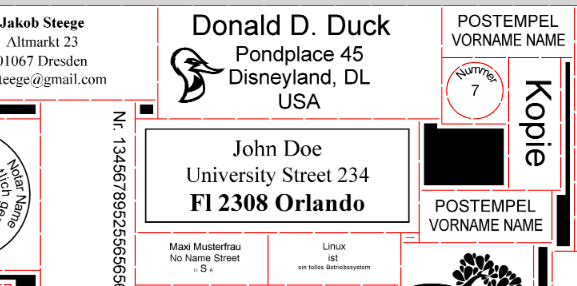
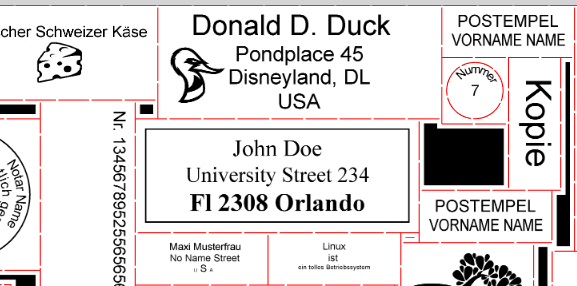
Bolasys Rechtschreibung + Bild ersetzt

Changed region(s): [[0.0, 0.0559, 0.2496, 0.3077]]

diff --git a/components/mycard.tsx b/components/mycard.tsx
@@ -20,8 +20,8 @@ const MyCard = () =>
   const text13 = ["Die Einbindung von Fremdsoftware wird durch Makros unterstützt."]
   const text14 = ["Logos oder fertige Designs können hochgeladen werden."]
 
-  const text15 = ["Beim Nesting werden Einzeldesigns optimiert für Arbeitstische oder Materialplatten angeordnet. Dabei erfolgen verschiedene Vorverarbeitungsschritte der Design-Dateien.",<br/>,"Einzelheiten erfahren Sie"]
-  const text16 = ["Zusätzlich werden Schneidlinien und zur Weiterverarbeitung notwendige Daten erzeugt und für nachfolgendene Arbeitsschritte aufbereitet."]
+  const text15 = ["Beim Nesting werden Einzeldesigns optimiert für Arbeitstische oder Materialplatten angeordnet.",<br/>,"Dabei erfolgen verschiedene Vorverarbeitungsschritte der Design-Dateien. Einzelheiten erfahren Sie"]
+  const text16 = ["Zusätzlich werden Schneidlinien und zur Weiterverarbeitung notwendige Daten erzeugt und für nachfolgende Arbeitsschritte aufbereitet."]
   
   const text17 = ["Erstellung von Komponentenlisten angepasst an Produktionseinheiten wie z.B. Gummiplatten bei der Herstellung von Gummistempeln."]
   const text18 = ["Wegoptimierung im Lager."]
@@ -32,7 +32,7 @@ const MyCard = () =>
   const text22 = ["Für die Stempelproduktion ist eine umfassende Integration der Drumfire-Maschine der Cylas Ag vorhanden."]
 
   const text23 = ["Die Station (Software) ist für die Montage von Gummitextplatten auf Stempelgeräte optimiert."]
-  const text24 = ["Die Zuordnung einzelner Textplatten und zugehöriger Geräte wird in einfacher Weise auftragsorientiert gewährleistet. Hier kann auch bereits die Verpackung und der Ausdruck von Adressaufklebern erfolgen."]
+  const text24 = ["Die Zuordnung einzelner Textplatten und zugehöriger Geräte wird in einfacher Weise auftragsorientiert gewährleistet.",<br/>,"Hier kann auch bereits die Verpackung und der Ausdruck von Adressaufklebern erfolgen."]
 
   const text25 = ["Es können Teil- und Sammellieferungen durchgeführt werden."]
   const text26 = ["Die Beauftragung unterschiedlicher Lieferdienste wird unterstützt."]
@@ -41,7 +41,7 @@ const MyCard = () =>
   const text28 = ["Andere Module externer Software können angeschlossen oder synchronisiert werden (z.B. Designeditoren oder Kundenverwaltung und Lagerverwaltung)."]
   const text29 = ["Die Verwendung einer Datev-Schnittstelle ist möglich."]
 
-  const text30 = ["Workflowsystem mit BPMN. Schnittstelle zur Verwaltung von Microservices."]
+  const text30 = ["Workflowsystem mit BPMN.",<br/>,"Schnittstelle zur Verwaltung von Microservices."]
   const text31 = ["Message-Broker."]
   const text32 = ["Datenbank POSGREQL"]
 
@@ -85,7 +85,7 @@ const MyCard = () =>
     <div id="nest" className="sprung"></div>
       <CardHeader style={{zIndex: "0"}}> <h3 className="text-[#2695a0] text-xl">Nesting</h3></CardHeader>
       <CardBody>
-        <Punkt text={text15}/><Link style={{marginTop:"-53px",marginLeft:"225px",paddingBottom:"30px"}} className="text-md text-[#5ec4d2]" href="/produkte/nestingsoftware">hier</Link>
+        <Punkt text={text15}/><Link style={{marginTop:"-53px",marginLeft:"290px",paddingBottom:"30px"}} className="text-md text-[#5ec4d2]" href="/produkte/nestingsoftware">hier</Link>
         <Punkt text={text16}/>
         </CardBody>
     </Card>

diff --git a/app/produkte/nestingsoftware/page.tsx b/app/produkte/nestingsoftware/page.tsx
@@ -19,7 +19,7 @@ import stempel6 from "@/app/bilder/anordnen_gpe.png";
 
 export default function Nesting() {
 
-  const text1 = ["Platzparendes automatisches Anordnen ihrer Designs auf einer Arbeitsfläche oder Materialplatte.",<br/> ,"Die Software gestattet automatische (voreingestellte) Vorverarbeitung von Designs, automatisches Entfernen und Hinzufügen von Schneidkonturen, verschiedene Anordnungsoptionen und Weitergabe von Anordnungsdaten für nachfolgende Arbeitsschritte.",<br/>,"Die im Weiteren verwerteten Anordnungsdaten gestatten das Softwaregestützte Auffinden von Designs auf der Materialplatte bei der Weiterverarbeitung.",<br/>, "Die folgenden Beispiele beziehen sich auf das Nesting von Stempeldesigns auf Gummiplatten."]
+  const text1 = ["Platzsparendes automatisches Anordnen ihrer Designs auf einer Arbeitsfläche oder Materialplatte.",<br/> ,"Die Software gestattet automatische (voreingestellte) Vorverarbeitung von Designs, automatisches Entfernen und Hinzufügen von Schneidkonturen, verschiedene Anordnungsoptionen und Weitergabe von Anordnungsdaten für nachfolgende Arbeitsschritte.",<br/>,"Die im Weiteren verwerteten Anordnungsdaten gestatten das Softwaregestützte Auffinden von Designs auf der Materialplatte bei der Weiterverarbeitung.",<br/>, "Die folgenden Beispiele beziehen sich auf das Nesting von Stempeldesigns auf Gummiplatten."]
   const text2 = ["Die Designs werden auf Minimalgröße zuzüglich eines voreingestellten Randes beschnitten, mit einem rechteckigen Schneidrahmen versehen und optimiert angeordnet.",<br/>, "Nicht benutzte Flächen werden nicht graviert.",<br/>,"Material, Filter, Energiekosten und Arbeitszeit werden gespart."]
   const text3 = ["Die Entfernung der doppelten Schneidlinien führt zu weiterer Ersparnis, vor allem bei der zum Ausschneiden benötigten Zeit.",<br/>,"Im Beispiel 3A kommt das Schrumpfen & Clipping hinzu."]
   const text4 = ['Schrumpfen ermöglicht weitere Einsparung von Filter- und Stromkosten.',<br/>,'Durch Wegschneiden möglicherweise abdruckender größerer leerer Bereiche wird die zu gravierende Fläche weiter vermindert.',<br/>,'Zusätzlich kann dadurch eventuell die Relieftiefe reduziert werden.',<br/>,'Dies führt zu weiteren Einsparungen von Zeit, Energie und Filtern.',<br/>,'Schrumpfen nach Methode 1 zeichnet sich durch einstellbar verrundete Ecken und einstellbares "Hineinschrumpfen" in Zwischenräume aus.']
